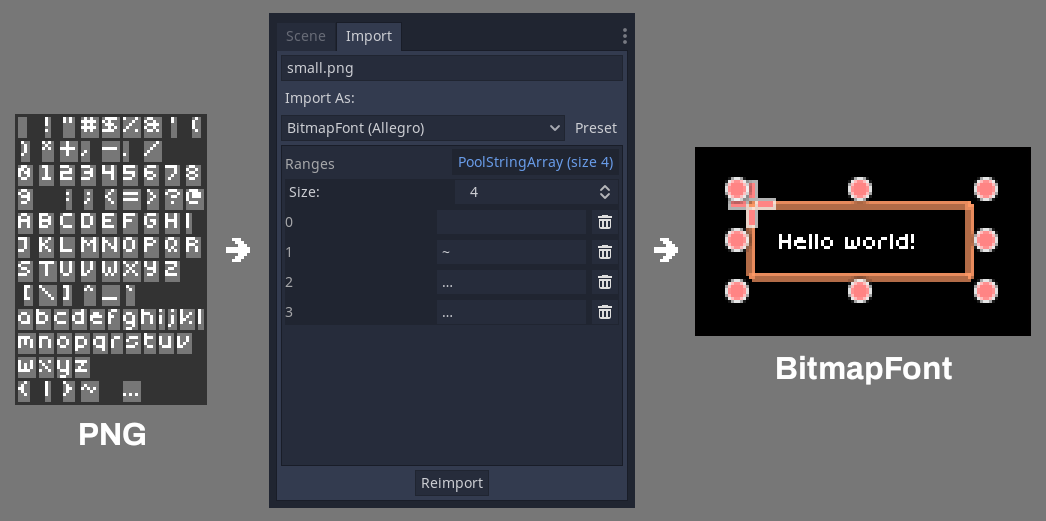
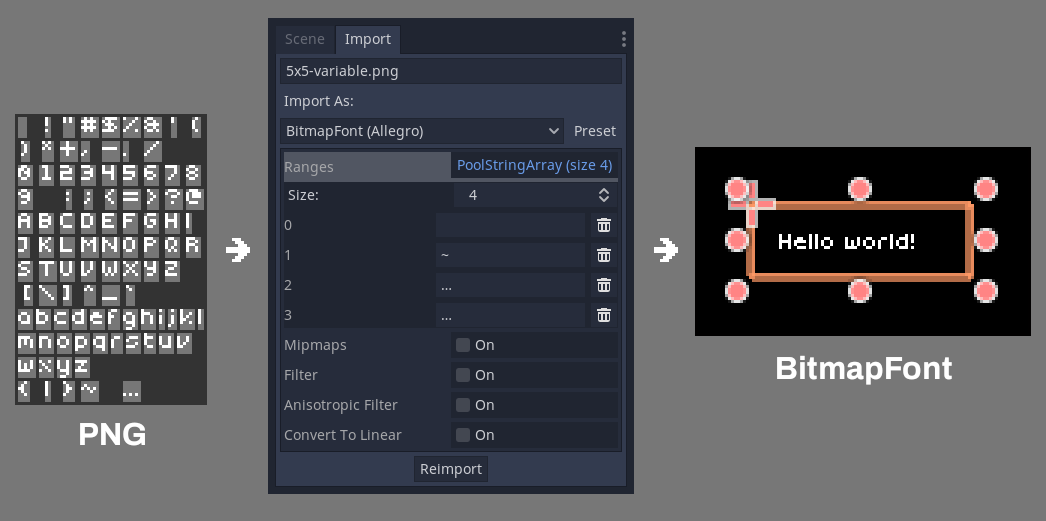
update docs and images
#5

diff --git a/README.md b/README.md
@@ -44,6 +44,8 @@ Then, select 'BitmapFont (Allegro)' from the dropdown:
 
 Each pair of strings in 'Ranges' defines an **inclusive** range of Unicode characters to import from the image. So, in the above screenshot, `123` and `ABC` are imported - meaning these settings would correctly import the font we used as an example.
 
+The other options (from 'Mipmaps' down) correspond to the [texture creation flags](https://docs.godotengine.org/en/3.2/classes/class_texture.html#enum-texture-flags).
+
 Once everything's configured, hit 'Reimport'. Hopefully, that should be it, and you can now use your PNG as a font!
 
 Keep an eye on the console for errors; if the image isn't correctly formatted - or your the number of glyphs specified doesn't match it - you'll be warned about it there.
